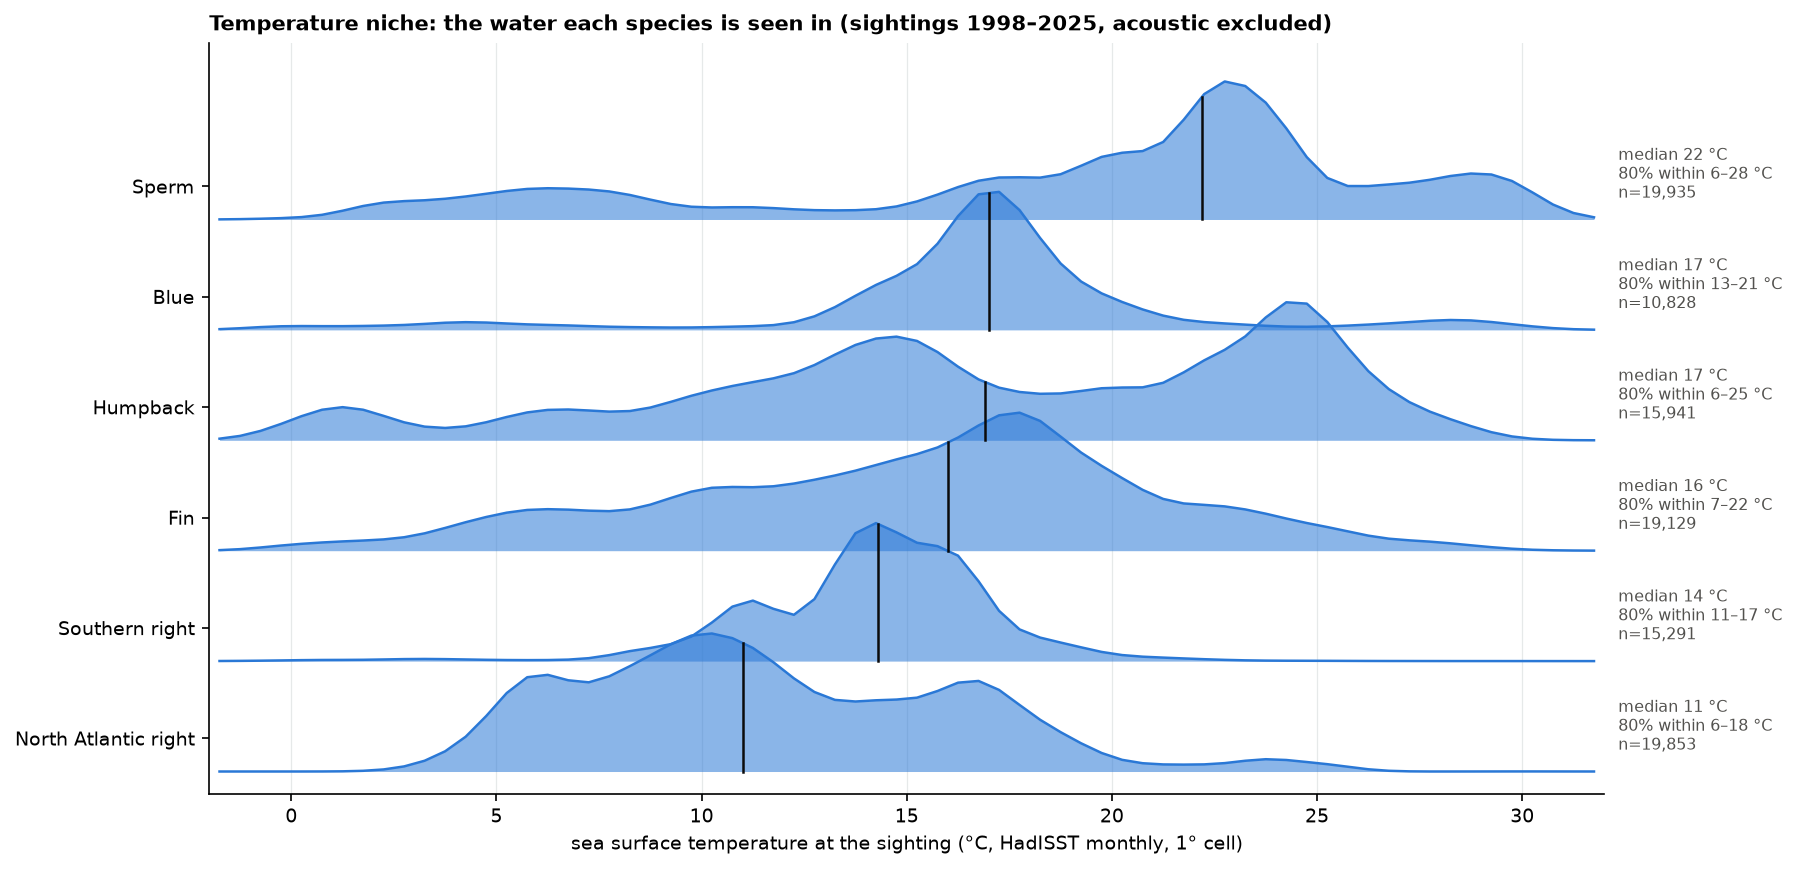
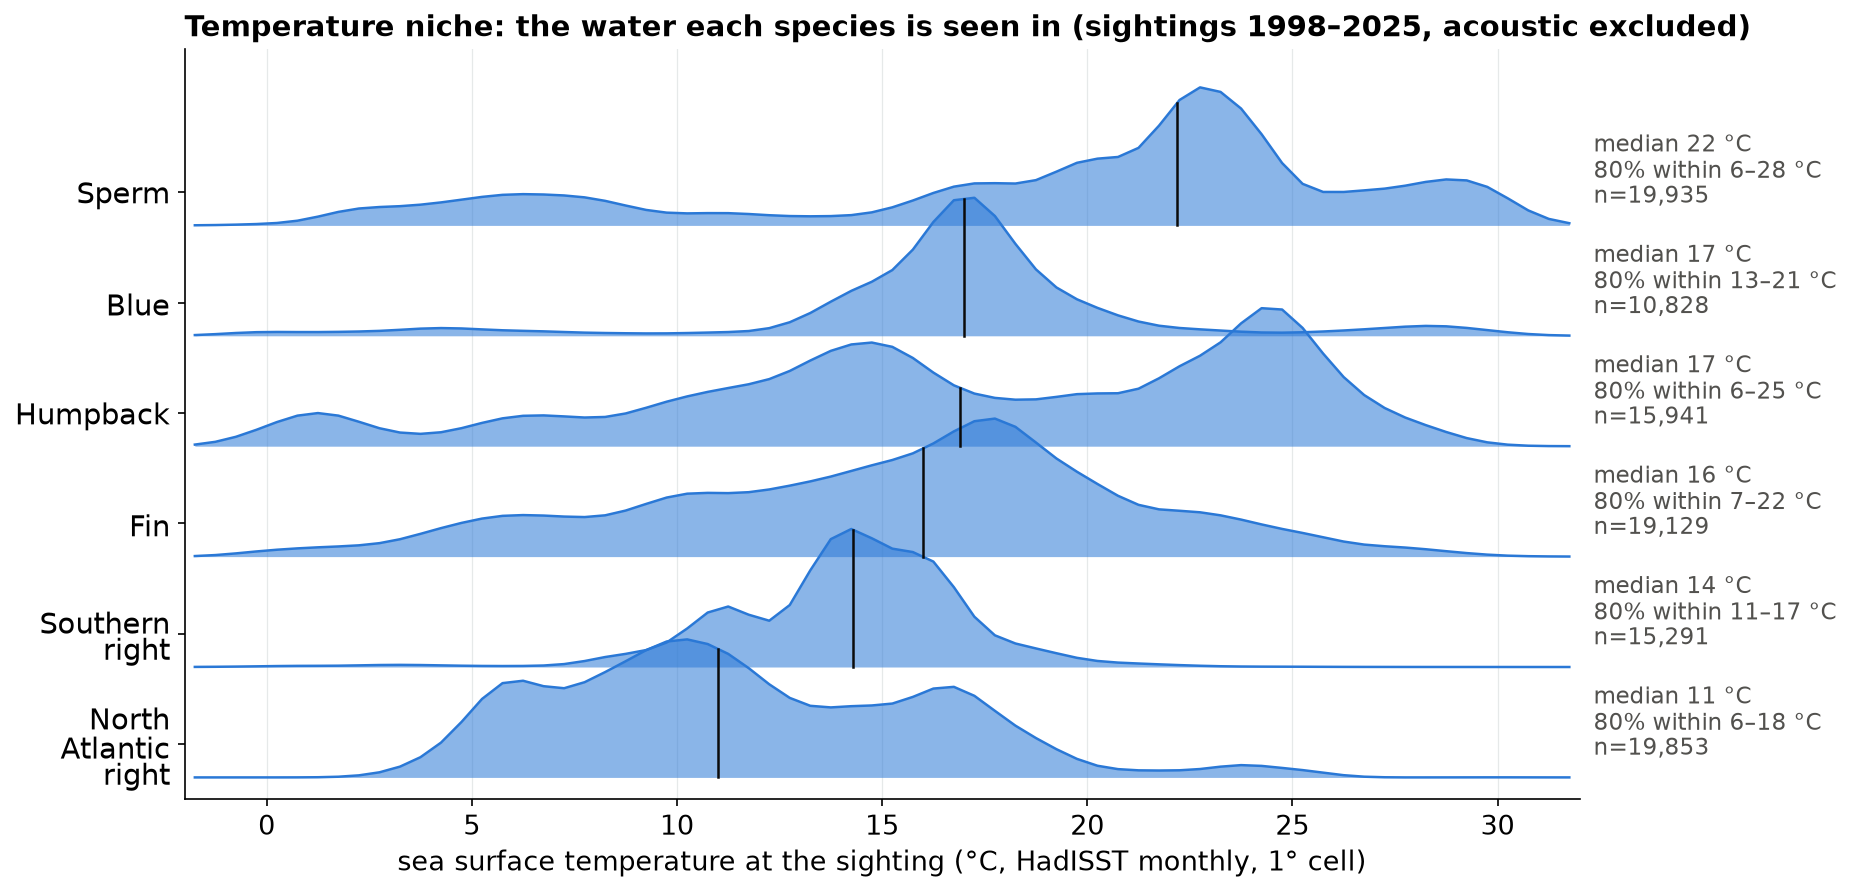
update graphs

diff --git a/src/pipeline/viz/social.py b/src/pipeline/viz/social.py
@@ -25,26 +25,105 @@ def region_group(region: str) -> int:
     return len(REGION_GROUPS) - 1
 
 
+def grid_layout(n_nodes: int, edges: list, aspect: float = 16 / 9, pad: float = 1.7) -> np.ndarray:
+    """Lay out each connected group on its own tile and pack the tiles in rows, largest first.
+
+    Inside a group: spring layout, rotated so its long axis is horizontal, scaled so that its area
+    grows with the number of whales. Tiles are packed left to right into rows of a fixed width,
+    chosen so the whole picture fills a canvas of the given aspect ratio. Position carries no
+    geographic meaning; only lines do.
+    """
+    import networkx as nx
+
+    G = nx.Graph()
+    G.add_nodes_from(range(n_nodes))
+    G.add_weighted_edges_from((a, b, w) for a, b, w, *_ in edges)
+    comps = sorted(nx.connected_components(G), key=lambda c: (-len(c), min(c)))
+
+    tiles = []                                       # (nodes, local xy, width, height)
+    for k, comp in enumerate(comps):
+        comp = sorted(comp)
+        if len(comp) == 2:
+            p = np.array([[-0.5, 0.0], [0.5, 0.0]])
+        else:
+            pos = nx.kamada_kawai_layout(G.subgraph(comp)) if len(comp) <= 60 else \
+                nx.spring_layout(G.subgraph(comp), weight="weight", seed=k, iterations=200)
+            p = np.array([pos[n] for n in comp])
+            p -= p.mean(0)
+            _, _, vt = np.linalg.svd(p, full_matrices=False)   # rotate: long axis horizontal
+            p = p @ vt.T
+            # Scale so the typical distance between linked whales is ~1 unit in every group.
+            idx = {n: i for i, n in enumerate(comp)}
+            el = [np.linalg.norm(p[idx[a]] - p[idx[b]]) for a, b in G.subgraph(comp).edges()]
+            p /= max(np.median(el), 1e-9)
+        p -= p.min(0)
+        w, h = p.max(0)
+        tiles.append((comp, p, w, h))
+
+    # Skyline packing: the canvas width is split into narrow columns; each tile (largest first)
+    # drops into the horizontal position where it can sit highest, so small groups fill the gaps
+    # beside and below large ones. The width is chosen by trial to match the target aspect.
+    res = 0.25
+
+    def pack(canvas_w):
+        ncols = int(np.ceil(canvas_w / res))
+        sky = np.zeros(ncols)                          # depth already used from the top, per column
+        placed = []
+        for comp, p, w, h in tiles:
+            wc = min(ncols, int(np.ceil((w + pad) / res)))
+            tops = np.lib.stride_tricks.sliding_window_view(sky, wc).max(1)
+            x = int(np.argmin(tops))                   # first (leftmost) of the highest spots
+            top = tops[x]
+            placed.append((comp, p + [x * res, -top - h]))
+            sky[x:x + wc] = top + h + 0.8 * pad
+        used_w = max(q[:, 0].max() for _, q in placed)
+        height = max(-q[:, 1].min() for _, q in placed)
+        return placed, used_w, height
+
+    widest = max(t[2] for t in tiles) + pad
+    best = None
+    for canvas_w in np.linspace(widest, widest * 6, 80):
+        placed, used_w, height = pack(canvas_w)
+        score = abs(np.log((used_w / height) / aspect))
+        if best is None or score < best[0]:
+            best = (score, placed)
+
+    xy = np.zeros((n_nodes, 2))
+    for comp, q in best[1]:
+        xy[comp] = q
+    return xy
+
+
 def plot_network(d: dict, out: Path) -> Path:
     """Each dot is a whale, each line a pair photographed together at least twice."""
     nodes, edges = d["nodes"], d["edges"]           # edge = [node_a, node_b, hwi, times_together, years]
-    xy = np.array([[n["x"], 1 - n["y"]] for n in nodes])
+    fig = plt.figure(figsize=(16, 9))
+    # The axes span the full figure width, with the title above and the legend below.
+    box = [0.005, 0.05, 0.99, 0.86]
+    ax = fig.add_axes(box)
+    xy = grid_layout(len(nodes), edges, aspect=(box[2] * 16) / (box[3] * 9))
     group = np.array([region_group(n["region"]) for n in nodes])
-    size = 4 + 3 * np.sqrt([n["deg"] for n in nodes])
+    deg = np.array([n["deg"] for n in nodes])
+    size = 22 + 10 * np.sqrt(deg)
 
-    fig, ax = plt.subplots(figsize=(10, 7.5))
     lines = [(xy[a], xy[b]) for a, b, *_ in edges]
-    widths = [0.3 + min(1.5, together / 4) for _, _, _, together, _ in edges]
-    ax.add_collection(LineCollection(lines, colors="#55606a", linewidths=widths, alpha=0.35, zorder=1))
+    widths = [1.0 + min(3.0, (together - 2) * 0.6) for _, _, _, together, _ in edges]
+    ax.add_collection(LineCollection(lines, colors="#3d454c", linewidths=widths, alpha=0.55, zorder=1,
+                                     capstyle="round"))
     for k, (label, _, color) in enumerate(REGION_GROUPS):
         m = group == k
-        ax.scatter(xy[m, 0], xy[m, 1], s=size[m], c=color, edgecolors="white", linewidths=0.3, zorder=2,
+        ax.scatter(xy[m, 0], xy[m, 1], s=size[m], c=color, edgecolors="white", linewidths=0.5, zorder=2,
                    label=f"{label} ({m.sum():,})")
     s = d["stats"]
-    ax.set_title("Humpback whales photographed together at least twice\n"
-                 f"{s['nodes']:,} whales, {s['edges']:,} repeated pairs, largest cluster "
-                 f"{s['largest_component']:,} whales (colour = home region; layout is not geographic)")
-    ax.legend(loc="upper left", bbox_to_anchor=(1.0, 0.95), frameon=False, markerscale=1.6, title="Home region")
+    ax.set_title(f"Humpback whales photographed together at least twice: {s['nodes']:,} whales, "
+                 f"{s['edges']:,} repeated pairs, {s['components']:,} separate groups\n"
+                 "Colour = home region (where the whale is photographed most often). Line width = times "
+                 "seen together. Layout is not geographic.", fontsize=14)
+    ax.legend(loc="upper center", bbox_to_anchor=(0.5, 0.0), ncol=len(REGION_GROUPS), frameon=False,
+              markerscale=1.6, fontsize=13, handletextpad=0.2, columnspacing=1.8)
+    ax.margins(0.005)
+    ax.set_aspect("equal", adjustable="datalim")   # keep the axes box full-size; pad the data range instead
+    ax.autoscale_view()
     ax.set_axis_off()
     return save(fig, out / "social_network.png")
 

diff --git a/src/pipeline/viz/showcase.py b/src/pipeline/viz/showcase.py
@@ -322,12 +322,18 @@ def plot_niche_ridgeline(r: dict, out: Path) -> Path:
         q10, q50, q90 = s["sst_quantiles"]
         ax.plot([q50, q50], [i, i + np.interp(q50, mid, h)], color=INK, lw=1.2, zorder=len(sp) + 1)
         ax.text(1.01, i + 0.15, f"median {q50:.0f} °C\n80% within {q10:.0f}–{q90:.0f} °C\nn={s['n_sst']:,}",
-                fontsize=7.5, color=INK_MUTED, ha="left", va="bottom", transform=ax.get_yaxis_transform())
-    ax.set_yticks(np.arange(len(sp)) + 0.3, [common_name(s["species"]) for s in sp])
-    ax.set(xlim=(-2, 32), ylim=(-0.2, len(sp) + 0.6), xlabel="sea surface temperature at the sighting (°C, HadISST monthly, 1° cell)")
+                fontsize=11, color=INK_MUTED, ha="left", va="bottom", linespacing=1.15,
+                transform=ax.get_yaxis_transform())
+    # One word per line keeps the label column narrow ("North Atlantic right" -> three short lines).
+    ax.set_yticks(np.arange(len(sp)) + 0.3, [common_name(s["species"]).replace(" ", "\n") for s in sp],
+                  fontsize=14, linespacing=1.0)
+    ax.tick_params(axis="x", labelsize=13)
+    ax.set_xlim(-2, 32)
+    ax.set_ylim(-0.2, len(sp) + 0.6)
+    ax.set_xlabel("sea surface temperature at the sighting (°C, HadISST monthly, 1° cell)", fontsize=13)
     ax.grid(axis="y", visible=False)
     ax.set_title("Temperature niche: the water each species is seen in (sightings 1998–2025, acoustic excluded)",
-                 fontsize=10)
+                 fontsize=14)
     return save(fig, out / "08_niche_temperature_ridgeline.png")
 
 
